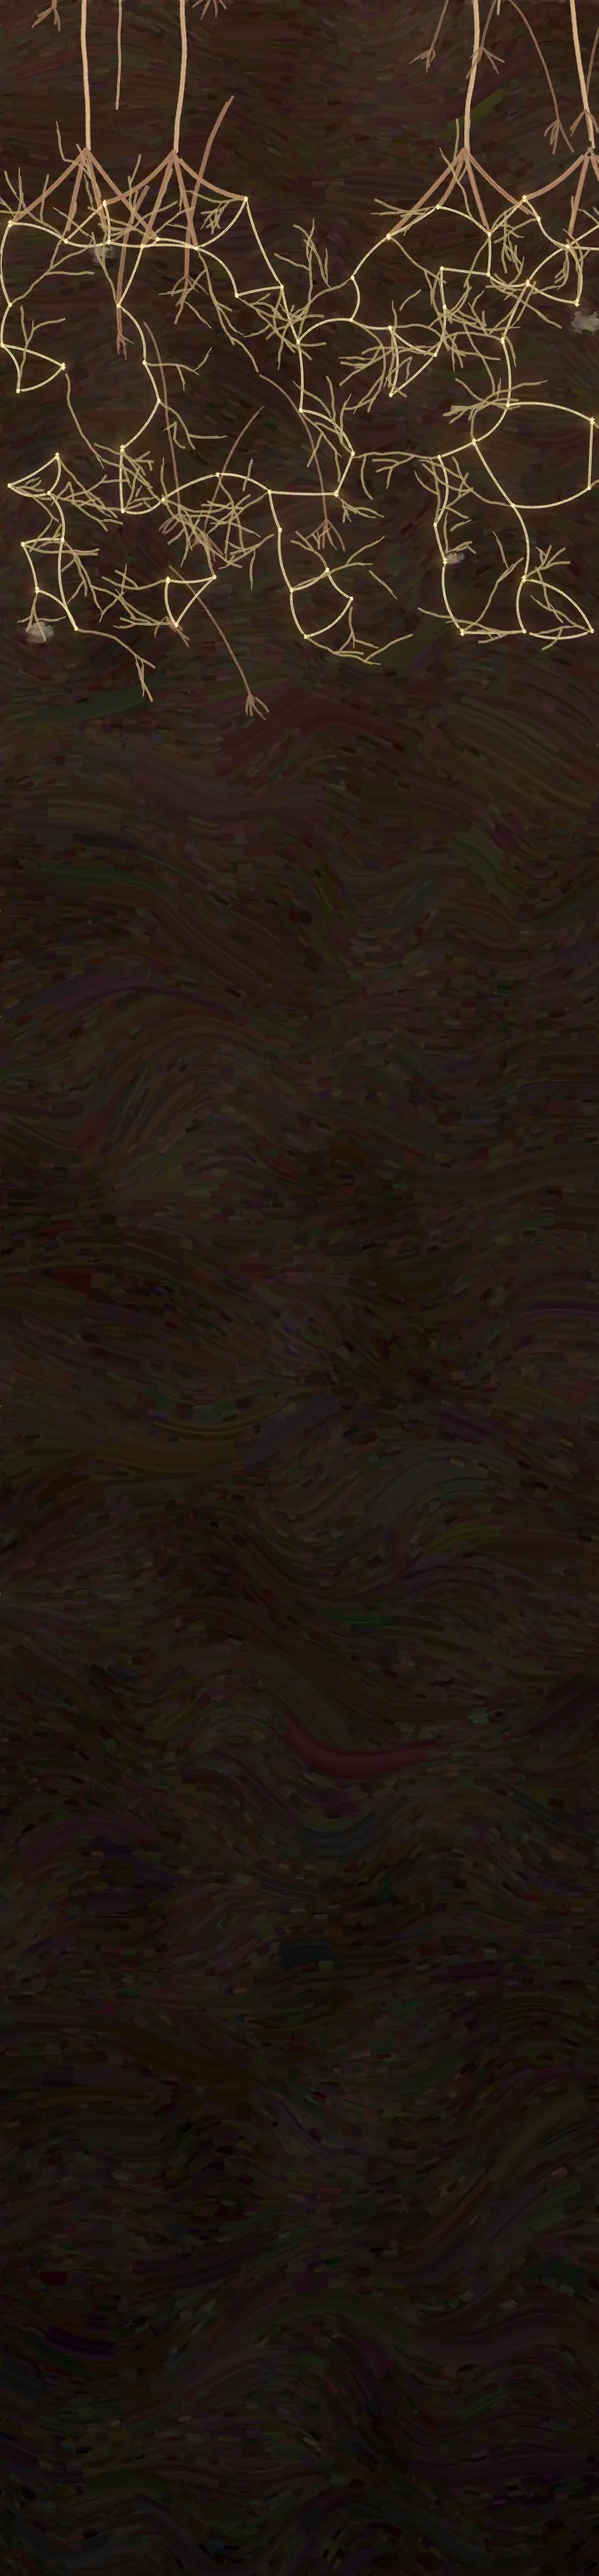
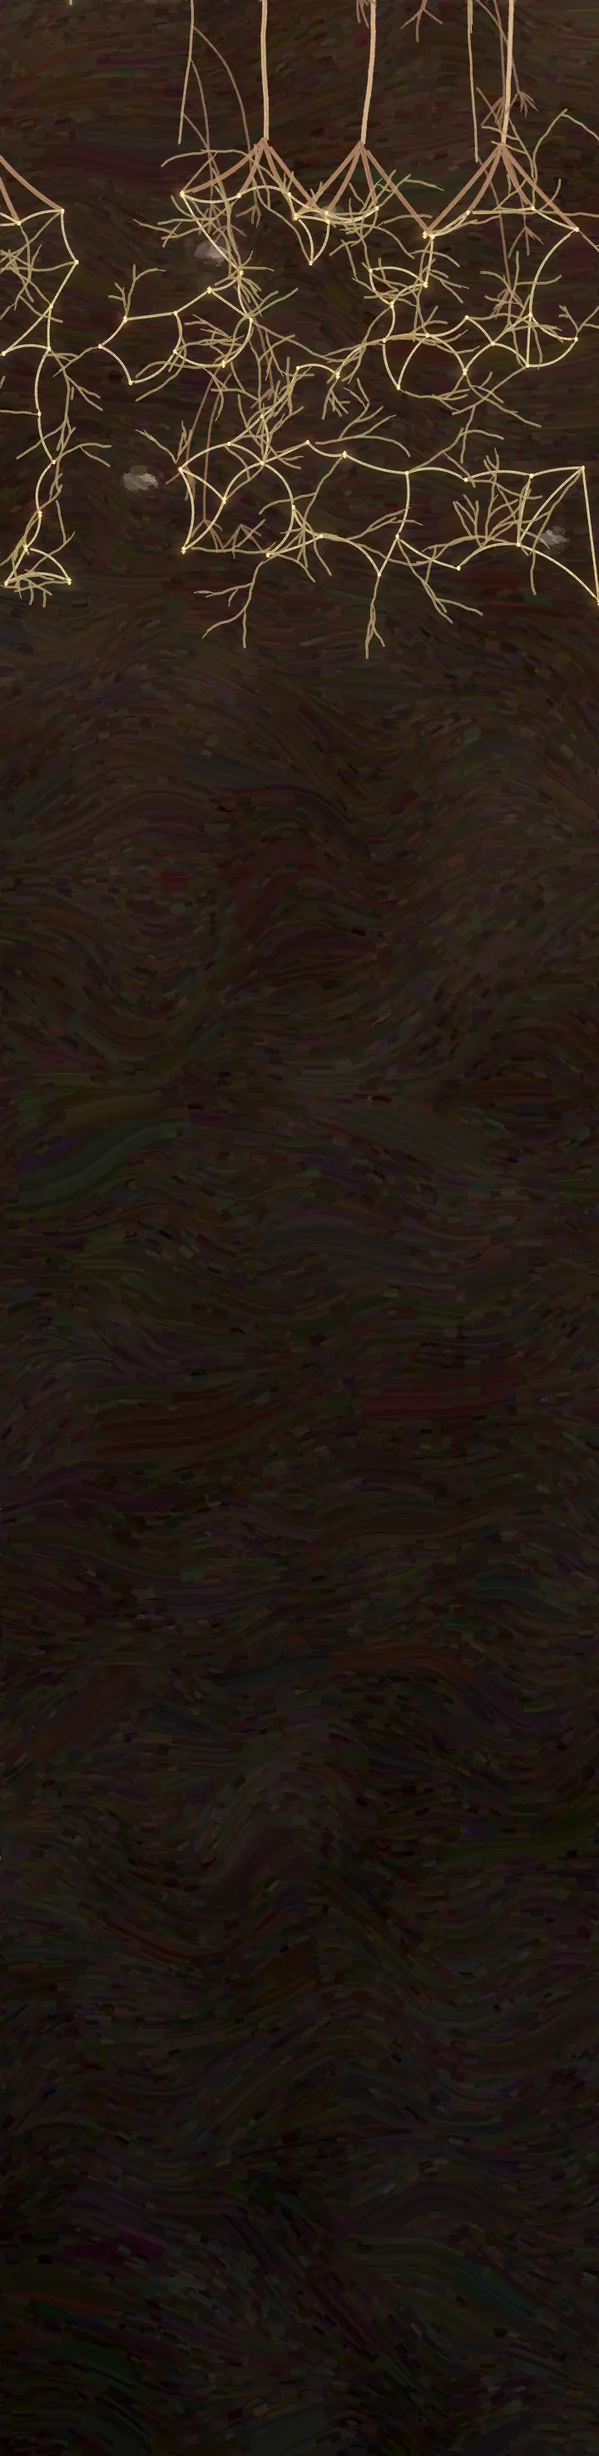
feat(landing): plain-language copy; Dispatches before reconciling
Rewrite the page at about a 7th-grade reading level: short sentences,
common words, one idea each. Put Dispatches first in the canopy and
reconciling second, so writing a shared mission statement leads
straight into how shared Documents change by vote.

Repaint the tall layout with a taller trunk section, so the longer
voting card fits its piece of the painting on phones.

Claude-Session: https://claude.ai/code/session_012KEDndk26D229XghHMz4Pq

diff --git a/landing/index.html b/landing/index.html
@@ -7,7 +7,7 @@
     <meta name="theme-color" content="#32477a" media="(prefers-color-scheme: dark)" />
     <meta
       name="description"
-      content="Reconcile is a place for groups to write to the people who follow them, and to join with other groups around what they share. A feed built on affiliation and shared values, private by design."
+      content="Reconcile is a home for groups. Write posts for the people who follow you, and team up with other groups when you agree on something. Private by design."
     />
     <title>Reconcile</title>
     <link rel="stylesheet" href="landing.css" />
@@ -23,95 +23,90 @@
     <header class="sky">
       <div class="wrap sky-inner">
         <nav class="topbar" aria-label="Site">
-          <a class="quiet-link" href="#reconcile">Reconciling</a>
           <a class="quiet-link" href="#dispatches">Dispatches</a>
+          <a class="quiet-link" href="#reconcile">Reconciling</a>
           <a class="quiet-link" href="#below">Privacy</a>
         </nav>
         <div class="hero">
           <h1>Reconcile</h1>
-          <p class="define">
-            <i>verb.</i> To find the ground you share with people you disagree with, and act on it
-            together.
-          </p>
+          <p class="define"><i>verb.</i> To find common ground, then act on it together.</p>
           <p class="lede">
-            A place for groups to write to the people who follow them, and to join with other
-            groups around what they both hold. What you write travels as far as people vote to
-            carry it, and no further.
+            Reconcile is a home for groups. Write posts for the people who follow you. Team up with
+            other groups when you agree on something. Your posts spread only when people vote to
+            share them.
           </p>
           <div class="actions">
             <!-- OPEN: where the app lives relative to this page (landing/README.md). -->
             <a class="button" href="/">Start a group</a>
-            <a class="quiet-link" href="#dispatches">See how a Dispatch travels</a>
+            <a class="quiet-link" href="#dispatches">See how posts spread</a>
           </div>
         </div>
       </div>
     </header>
 
     <main>
-      <section class="canopy" aria-labelledby="h-reconcile">
-        <div class="wrap" id="reconcile">
-          <div class="win prose">
-            <p class="eyebrow">Where branches meet</p>
-            <h2 id="h-reconcile">To reconcile is to join around what you share.</h2>
-            <p>
-              Two groups can disagree about most things and still hold one thing in common. When
-              they find it, they reconcile. Each group votes. If both say yes, they form a
-              Coalition, with a mission statement they write together.
-            </p>
-            <p>
-              Each group keeps its own Documents and its own disagreements. Coalitions can
-              reconcile too, into wider and wider circles.
-            </p>
-          </div>
-        </div>
+      <section class="canopy" aria-labelledby="h-dispatches">
         <div class="wrap" id="dispatches">
           <div class="win prose">
             <p class="eyebrow">Dispatches</p>
-            <h2>Write to the people who chose to hear from you.</h2>
+            <h2 id="h-dispatches">Write to the people who follow you.</h2>
             <p>
-              A Dispatch is a post: an essay, an update, a call to act. It goes to the people who
-              follow your group. From there it travels only by vote.
+              A Dispatch is a post. It can be an essay, an update, or a call to act. It goes to
+              everyone who follows your group. After that, it spreads only by vote.
             </p>
           </div>
           <ol class="steps">
             <li class="win">
-              <h3>Write</h3>
-              <p>A Co-Creator writes a Dispatch and sets how far it may travel.</p>
+              <h3>You write</h3>
+              <p>Write your Dispatch. Choose how far it is allowed to spread.</p>
             </li>
             <li class="win">
               <h3>Your group votes</h3>
-              <p>If it passes, your group sends it up to its Coalition.</p>
+              <p>If your group says yes, it goes up to your Coalition.</p>
             </li>
             <li class="win">
               <h3>Each Coalition votes</h3>
               <p>
-                Level by level, it reaches wider circles of groups that share something with yours.
+                A Coalition is a team of groups. Each one votes before passing it on to a bigger
+                one.
               </p>
             </li>
             <li class="win">
-              <h3>It stops where agreement stops</h3>
-              <p>
-                Nothing is broadcast to everyone, and a Dispatch never passes the limit its author
-                set.
-              </p>
+              <h3>It stops when the yeses stop</h3>
+              <p>Nothing goes out to everyone. And it never goes further than you chose.</p>
             </li>
           </ol>
           <p class="win pullquote">
-            A feed that grows from what you've joined and what you share, not from whoever holds
-            your attention longest.
+            Your feed comes from the groups you joined and what you share with them. Not from
+            whoever is loudest.
           </p>
+        </div>
+        <div class="wrap" id="reconcile">
+          <div class="win prose">
+            <p class="eyebrow">Where branches meet</p>
+            <h2 id="h-reconcile">To reconcile is to team up on what you share.</h2>
+            <p>
+              Two groups can disagree on almost everything and still agree on one thing. When they
+              find it, they can reconcile. Each group votes. If both say yes, they form a Coalition
+              and write a mission statement together.
+            </p>
+            <p>
+              Each group keeps its own Documents and its own opinions. Coalitions can team up too,
+              and form bigger ones.
+            </p>
+          </div>
         </div>
       </section>
 
       <section class="understory" aria-labelledby="h-trunk">
         <div class="wrap">
           <div class="win notice">
-            <p class="eyebrow">What holds a group up</p>
-            <h2 id="h-trunk">Living Documents, changed only by vote.</h2>
+            <p class="eyebrow">How a group decides</p>
+            <h2 id="h-trunk">Shared Documents change only by vote.</h2>
             <p>
-              A group keeps its mission statement, its house rules or its points of unity as living
-              Documents. A Co-Creator proposes a change, the group scores it from 0 to 4, and it
-              passes on consent: an average of at least 2.0, with fewer than 10% scoring it 0.
+              A mission statement is a living Document. So are house rules, or a list of what your
+              group stands for. Any Co-Creator can propose a change. Then the group votes. Each
+              person gives the change a score from 0 to 4.
             </p>
             <ul class="scale" aria-label="The ballot scale">
               <li class="s0"><b>0</b> Strongly opposed</li>
@@ -121,8 +116,13 @@
               <li class="s4"><b>4</b> Strongly supportive</li>
             </ul>
             <p>
-              The Document isn't the last thing someone typed. It's the last edit that survived a
-              vote.
+              A change passes when the average score is 2.0 or higher, and fewer than 1 in 10 voters
+              give it a 0. So a change most people like can still fail, if too many people can't
+              live with it.
+            </p>
+            <p>
+              The Document is never just the last thing someone typed. It's the last change the
+              group voted in.
             </p>
             <dl class="levels">
               <div>
@@ -131,14 +131,14 @@
               </div>
               <div>
                 <dt>Collaborator</dt>
-                <dd>Votes on Proposals.</dd>
+                <dd>Votes on changes.</dd>
               </div>
               <div>
                 <dt>Co-Creator</dt>
-                <dd>Votes, writes and proposes.</dd>
+                <dd>Votes, writes, and proposes changes.</dd>
               </div>
             </dl>
-            <p class="caption">Once you're in a group, you choose your own level.</p>
+            <p class="caption">After you join a group, you pick your own level.</p>
           </div>
         </div>
       </section>
@@ -148,24 +148,23 @@
           <div class="wrap">
             <div class="win prose">
               <p class="eyebrow">Below ground</p>
-              <h2 id="h-soil">What keeps a forest standing is out of sight.</h2>
+              <h2 id="h-soil">Like roots, the important part stays hidden.</h2>
               <p>
-                Your group's Documents, its people and its votes live on your own devices. The relay
-                that carries messages between them holds only sealed envelopes. It can't read them,
-                and it can't list who is in a group.
+                Your group's Documents, members, and votes stay on your own devices. Our server only
+                passes along sealed messages. It can't read them. It can't see who is in your group.
               </p>
               <ul class="plain">
                 <li>
                   <h3>No list of everyone</h3>
-                  <p>There is no directory of people or groups to search or sell.</p>
+                  <p>There is no list of people or groups for anyone to search or sell.</p>
                 </li>
                 <li>
-                  <h3>A separate identity for each group</h3>
-                  <p>Being in one group says nothing about the others you're in.</p>
+                  <h3>A different you in each group</h3>
+                  <p>Joining one group shows nothing about your other groups.</p>
                 </li>
                 <li>
-                  <h3>Yours to undo</h3>
-                  <p>Joining and following are choices you make, and you can take them back.</p>
+                  <h3>You can always undo it</h3>
+                  <p>You choose to join or follow. You can leave any time.</p>
                 </li>
               </ul>
             </div>
@@ -179,22 +178,25 @@
                 <p class="eyebrow">The network</p>
                 <h2 id="h-network">A feed that follows your roots.</h2>
                 <p>
-                  Trees that look separate pass water and warning through the threads between their
-                  roots. Dispatches move the same way: through the groups you've joined and the
-                  Coalitions those groups have formed.
+                  Trees that look separate are linked underground. Thin threads between their roots
+                  carry water and warnings from tree to tree. Dispatches travel the same way:
+                  through the groups you joined and the Coalitions they formed.
                 </p>
                 <ul class="plain">
                   <li>
-                    <h3>Reach is voted, never bought</h3>
-                    <p>A Dispatch spreads because groups chose to carry it, one level at a time.</p>
+                    <h3>Votes decide what spreads</h3>
+                    <p>A Dispatch spreads because groups voted to share it. No one can pay to push it.</p>
                   </li>
                   <li>
-                    <h3>Nothing to mine</h3>
-                    <p>No ads, no like counts, no leaderboards. Reconcile runs on gifts.</p>
+                    <h3>Nothing built to hook you</h3>
+                    <p>No ads. No like counts. No leaderboards. Reconcile runs on gifts.</p>
                   </li>
                   <li>
-                    <h3>No map of who is joined to whom</h3>
-                    <p>Coalitions form by private invitation from one group to another.</p>
+                    <h3>No public map</h3>
+                    <p>
+                      Groups team up by private invitation. No one can look up who has joined with
+                      whom.
+                    </p>
                   </li>
                 </ul>
               </div>
@@ -206,8 +208,8 @@
               <div class="win prose">
                 <h2 id="h-start">Start with your own group.</h2>
                 <p>
-                  Reconcile is in a small pilot. It's free to use, it runs in your browser, and you
-                  can add it to your phone's Home Screen.
+                  Reconcile is in a small pilot. It's free. It runs in your browser, and you can add
+                  it to your phone's home screen.
                 </p>
                 <div class="actions">
                   <a class="button" href="/">Start a group</a>
@@ -216,7 +218,7 @@
             </div>
             <footer class="wrap foot">
               <span class="wordmark">Reconcile</span>
-              <p>This page runs no scripts, sets no cookies and loads nothing from anyone else.</p>
+              <p>This page runs no scripts, sets no cookies, and loads nothing from other sites.</p>
             </footer>
           </section>
         </div>

diff --git a/landing/landing.css b/landing/landing.css
@@ -305,7 +305,7 @@ a {
 }
 .understory {
   --piece: url('img/tall/trunks.webp');
-  aspect-ratio: 100 / 310;
+  aspect-ratio: 100 / 370;
   background-color: var(--mist);
 }
 .soil {
@@ -317,7 +317,7 @@ a {
 .deep {
   --tint: var(--tint-earth);
   --piece: url('img/tall/deep.webp');
-  aspect-ratio: 100 / 430;
+  aspect-ratio: 100 / 410;
   background-color: var(--deep);
 }
 
@@ -396,7 +396,7 @@ a {
 }
 
 /* Room to see the boughs cross between the two groups of cards. */
-#dispatches {
+#reconcile {
   padding-top: 34vw;
 }
 
@@ -562,7 +562,7 @@ a {
   .canopy {
     padding-block: 6vw 10vw;
   }
-  #dispatches {
+  #reconcile {
     padding-top: 22vw;
   }
   .understory {

diff --git a/landing/paint.py b/landing/paint.py
@@ -105,7 +105,7 @@ TALL = Layout(
     name="tall",
     width=720,
     units=900,
-    heights=(2.3, 5.4, 3.1, 2.4, 4.3),
+    heights=(2.3, 5.4, 3.7, 2.4, 4.1),
     trees=(0.07, 0.3, 0.7, 0.93),
     crowns=0.7,
     floor=0.5,

diff --git a/landing/README.md b/landing/README.md
@@ -9,13 +9,16 @@ for, and the words sit on paper cards over the painting.
 | Layer | What it says |
 |-------|--------------|
 | Sky | The word itself: *Reconcile*, defined, with the two things the page is about |
-| Canopy, where the boughs cross | Reconciling: groups joining into Coalitions, and Coalitions into wider ones ([ADR-0074](../docs/adr/0074-mvp-scope-revised.md)) |
-| Canopy, further down | Dispatches, and how one travels up by vote ([ADR-0037](../docs/adr/0037-holonic-promotion.md), [ADR-0071](../docs/adr/0071-self-hosting-and-reach.md)) |
+| Canopy | Dispatches, and how one travels up by vote ([ADR-0037](../docs/adr/0037-holonic-promotion.md), [ADR-0071](../docs/adr/0071-self-hosting-and-reach.md)) |
+| Canopy, where the boughs cross | Reconciling: groups joining into Coalitions, and Coalitions into wider ones ([ADR-0074](../docs/adr/0074-mvp-scope-revised.md)). It sits just above the trunks, so writing a shared mission statement leads into how Documents change |
 | Trunks | Living Documents, the consent floor ([ADR-0002](../docs/adr/0002-consent-floor-vote-rule.md)) and the three levels ([ADR-0021](../docs/adr/0021-level-names-and-self-selection.md)) |
 | Soil and roots | Local-first, and no list of everyone ([ADR-0001](../docs/adr/0001-local-first-trust-model.md)) |
 | Mycelium | A feed that follows affiliation, not attention ([ADR-0070](../docs/adr/0070-patronage-not-attention.md)) |
 
 Dispatches and reconciling lead the page. Document governance supports them.
+
+The copy aims at about a 7th-grade reading level: short sentences, common words, one idea each.
+Keep it there when you edit.
 
 ## Files
 
